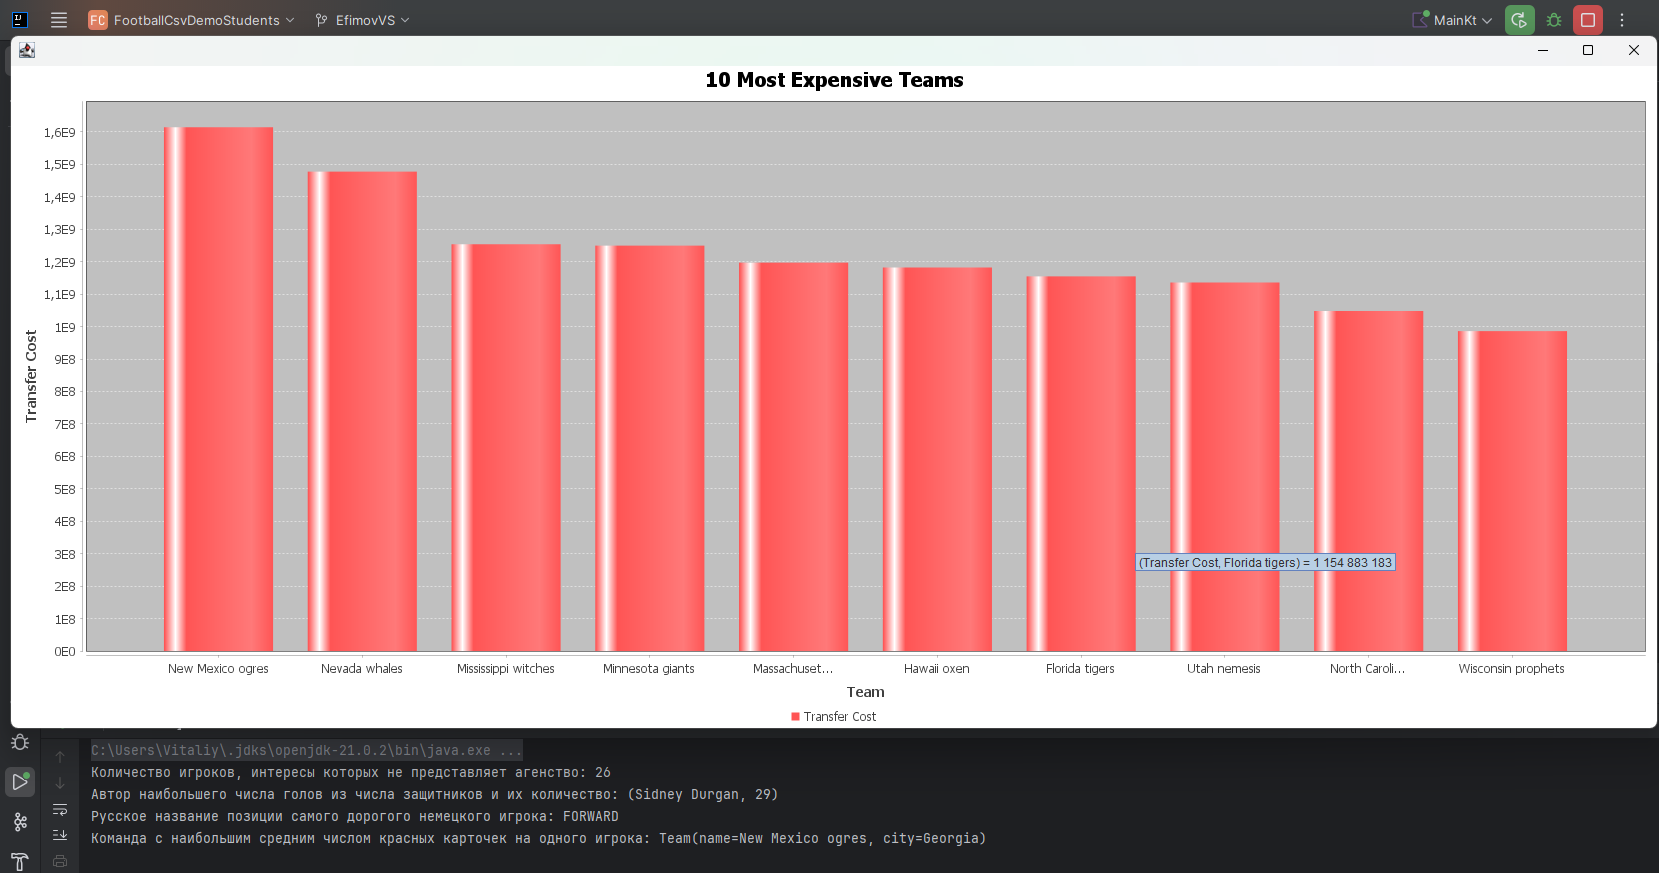
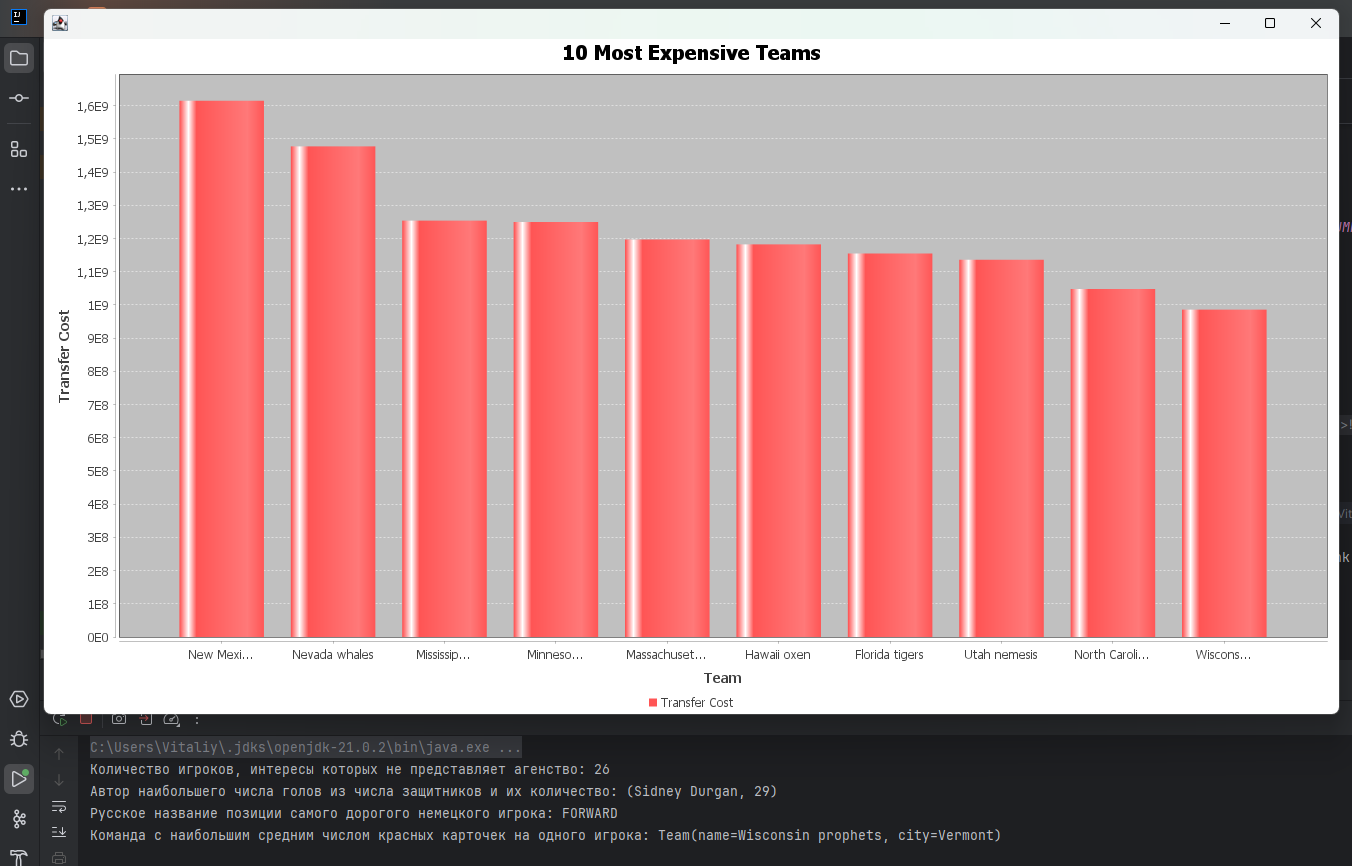
Complete first task with bonus

diff --git a/src/main/kotlin/resolver/Resolver.kt b/src/main/kotlin/resolver/Resolver.kt
@@ -32,10 +32,7 @@ class Resolver(
         val redCardsCountByTeam = playersData.stream().collect(
             Collectors.groupingBy(
                 { player -> player.team },
-                Collectors.mapping(
-                    { player -> player.redCardsCount },
-                    Collectors.counting()
-                )
+                Collectors.averagingInt { player -> player.redCardsCount }
             )
         )
 

diff --git a/src/test/kotlin/resolver/ResolverTest.kt b/src/test/kotlin/resolver/ResolverTest.kt
@@ -65,7 +65,7 @@ class ResolverTest {
             )
         )
 
-        assertEquals(team1, resolver.getTheRudestTeam().name)
+        assertEquals(team2, resolver.getTheRudestTeam().name)
     }
 
     @Test
